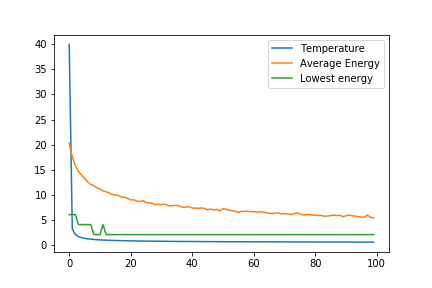
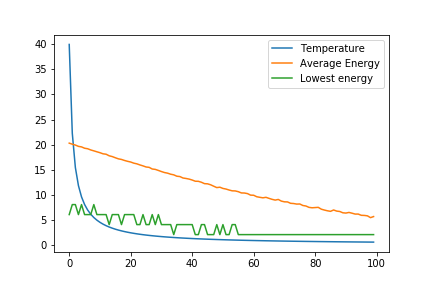
changed signs of delta E and rerun missing problems

diff --git a/simulated_annealing.py b/simulated_annealing.py
@@ -36,16 +36,15 @@ class Annealer:
             energyVBSFArr[i] = self.__model.get_energy()
             Etemp = 0
             for k in range(runs_per_temp):
-                # TODO invert the sign of dE
                 T = self.__temps[i]
-                dE = self.__model.get_energy()
-                Etemp += dE
-                if dE < energyVBSFArr[i]:
-                    energyVBSFArr[i] = dE
+                dE = 0 - self.__model.get_energy()
+                Etemp += np.abs(dE)
+                if np.abs(dE) < energyVBSFArr[i]:
+                    energyVBSFArr[i] = np.abs(dE)
                 self.__model.pair_exchange_random()
-                dE = dE - self.__model.get_energy()
+                dE += self.__model.get_energy()
                 # If energy got lower, go to next
-                if dE > 0:
+                if dE < 0:
                     continue
 
                 # calculate the boundary for accepting
@@ -54,7 +53,7 @@ class Annealer:
                 elif T == 0:
                     p = 0
                 else:
-                    p = np.exp(dE/T)
+                    p = np.exp(-dE/T)
                 r = np.random.rand()
                 # If change not accepted, go back to old model
                 if r > p:
